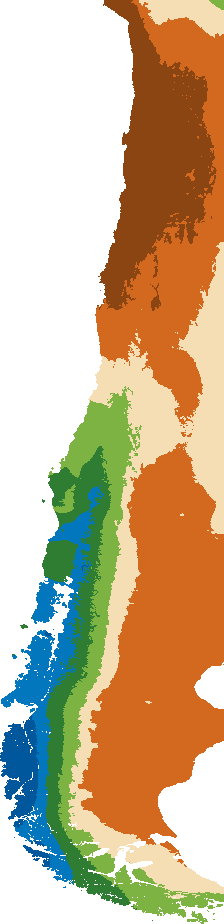
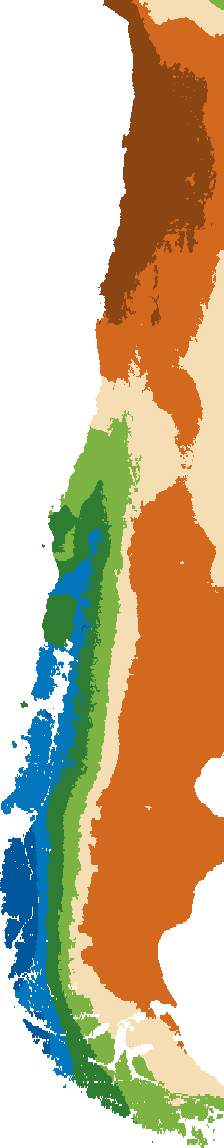
fix(bioclima): reproyectar el PNG a Web Mercator; estaba corrido 287 km
El GeoTIFF tiene las filas equiespaciadas en grados de latitud, pero
L.ImageOverlay estira la imagen linealmente en la proyección del mapa,
que es Mercator y comprime la latitud de forma no lineal. El resultado
era una capa desplazada hasta 287 km hacia el sur en el centro del país.

Se detectó porque la Isla Grande de Chiloé aparecía sin datos: el píxel
que caía sobre la isla venía de ~2,4° más al norte, que a esa longitud
es océano abierto y por tanto transparente. Los datos siempre
estuvieron ahí —Castro 2.133 mm, Ancud 2.516— y el PNG los tenía
pintados; lo que estaba mal era dónde se dibujaban.

Ahora el ETL escribe las filas equiespaciadas en Y de Mercator,
traduciendo cada fila de salida a su latitud y de ahí a la fila del
raster de origen. El alto se dimensiona por la latitud más fina del
recorte para no perder filas en ninguna parte (224x924 → 224x1148).

Verificado contra los valores del TIFF: tras la corrección, las filas
que Leaflet dibujará sobre Castro, Ancud y Quellón traen el tramo de
2.000-3.000 mm; Santiago cae en 300-600 y Puerto Montt en 1.200-2.000,
todos coincidentes con el origen.

El desfase era cero en los dos extremos del recorte y máximo en el
medio, así que no se veía revisando si el patrón "parecía plausible" —
sobrevivió a una verificación visual previa por eso mismo. Queda
anotado en el roadmap y en AGENTS.md que una capa raster se verifica
contra una costa concreta, y que una isla es el mejor testigo.
[…]

diff --git a/AGENTS.md b/AGENTS.md
@@ -70,10 +70,17 @@ Browser → /api/geocode → Nominatim/OSM (address search, Chile only, cached p
   downloads the official 628 MiB package (all 19 bioclimatic variables ship in ONE zip; there
   is no per-variable download), extracts only BIO1 and BIO12, and clips the window out of the
   8640 × 4320 global GeoTIFF with `geotiff` + `pngjs`. Three details that are load-bearing:
-  (1) the colour ramp lives in `src/lib/bioclima-ramp.json`, read by BOTH the ETL and the
-  legend, so map and legend cannot drift apart; (2) the overlay's bounds come from the
+  (1) **the PNG is written REPROJECTED to Web Mercator** — rows evenly spaced in EPSG:3857
+  Y, not in degrees of latitude. `L.ImageOverlay` stretches the image linearly in the map's
+  projection, so a degree-spaced PNG lands **up to 287 km too far south** in central Chile;
+  that bug shipped once and showed up as Chiloé rendering blank, because the pixel landing on
+  the island came from ~2.4° further north, which at that longitude is open ocean. The offset
+  is zero at both edges of the clip and worst in the middle, so it is invisible to a "looks
+  plausible" check — verify against a concrete coastline, an island is the best witness;
+  (2) the colour ramp lives in `src/lib/bioclima-ramp.json`, read by BOTH the ETL and the
+  legend, so map and legend cannot drift apart; (3) the overlay's bounds come from the
   manifest, computed from the pixel-rounded clip — using the nominal degrees offsets the
-  image by up to half a cell; (3) ocean arrives as `NaN` or a large negative sentinel and both
+  image by up to half a cell; (4) ocean arrives as `NaN` or a large negative sentinel and both
   must be dropped, or the sea gets painted with the coldest ramp colour. BIO1 is °C float32 —
   v2.1 dropped v1.4's ×10 integer scaling. Climatology is **1970-2000** at 2.5 arc-minutes: an
   interpolated surface from weather stations, never a site measurement, and the attribution

diff --git a/docs/roadmap.md b/docs/roadmap.md
@@ -361,6 +361,21 @@ agregan valor tanto para tasación rural (contexto ambiental) como para ecoinfor
       redondea a píxel y publica los bounds efectivos en el manifiesto; el mapa
       los lee de ahí. Usar los grados nominales habría corrido la imagen hasta
       medio píxel.
+- [x] **PNG reproyectado a Web Mercator** (corregido el 2026-09-03 tras un bug
+      en producción). El GeoTIFF tiene las filas equiespaciadas en GRADOS de
+      latitud, pero `L.ImageOverlay` estira la imagen linealmente en la
+      proyección del mapa, que es Mercator y comprime la latitud de forma no
+      lineal. Escribir el PNG en grados dejaba la capa corrida **hasta 287 km
+      hacia el sur** en el centro del país: sobre Chiloé caía el píxel de ~2,4°
+      más al norte —a esa longitud, océano abierto— y la isla se veía sin datos.
+      Ahora las filas van equiespaciadas en Y de Mercator, y el alto se
+      dimensiona por la latitud más fina del recorte para no perder filas
+      (224×924 → 224×1148).
+      **Lección para cualquier capa raster futura**: el desfase es cero en los
+      dos extremos del recorte y máximo en el medio, así que NO se detecta
+      mirando si el patrón «se ve plausible». Hay que verificar contra una costa
+      o frontera concreta —una isla es el mejor testigo—. Este bug sobrevivió a
+      una verificación visual previa justamente por eso.
 - [x] **Océano transparente**: el TIFF marca el mar como `NaN` o con un centinela
       muy negativo según cómo se escribió; ambos casos se descartan, o el mar se
       habría pintado con el color del tramo más frío.
